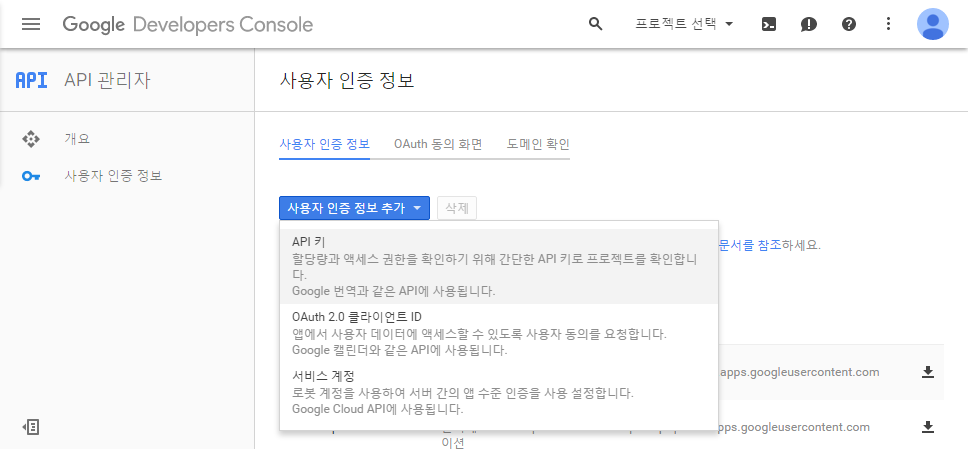
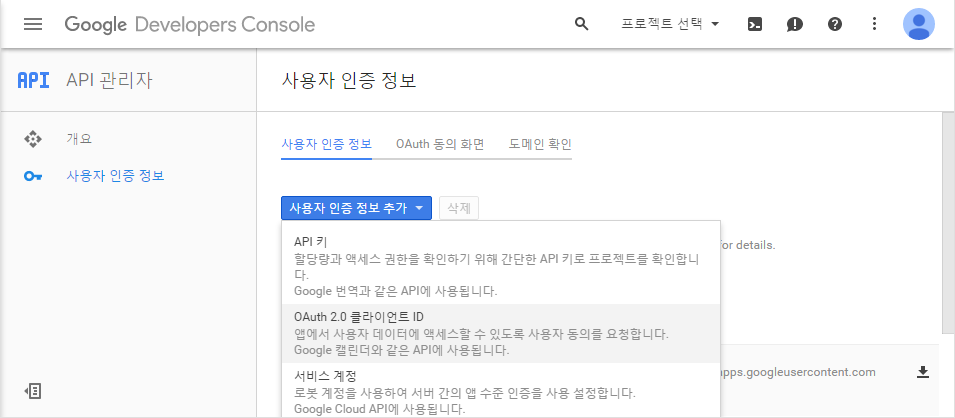
fix miss infomation

diff --git a/_posts/2015-11-12-4.md b/_posts/2015-11-12-4.md
@@ -58,7 +58,7 @@ Google API로 사용가능한 API 목록들이 나오는데 검색에 `Apps Scri
 
 ![Auth Info](/images/posts/gas-auth-info.png)
 
-이름은 적당히 원하는 이름으로 적고, *HTTP 리퍼러*에 해당 Origin을 적자. 필요한 Origin을 모두 등록하고 생성을 누르면 된다.
+애플리케이션 유형은 이번 포스팅에서는 웹 애플리케이션에 해당한다. 이름은 적당히 원하는 이름으로 적고, *승인된 자바스크립트 원본*에 해당 Origin을 넣는다. 필요한 Origin을 모두 등록하고 생성을 누르면 된다.
 
 ![Browser Key](/images/posts/gas-browser-key.png)
 
